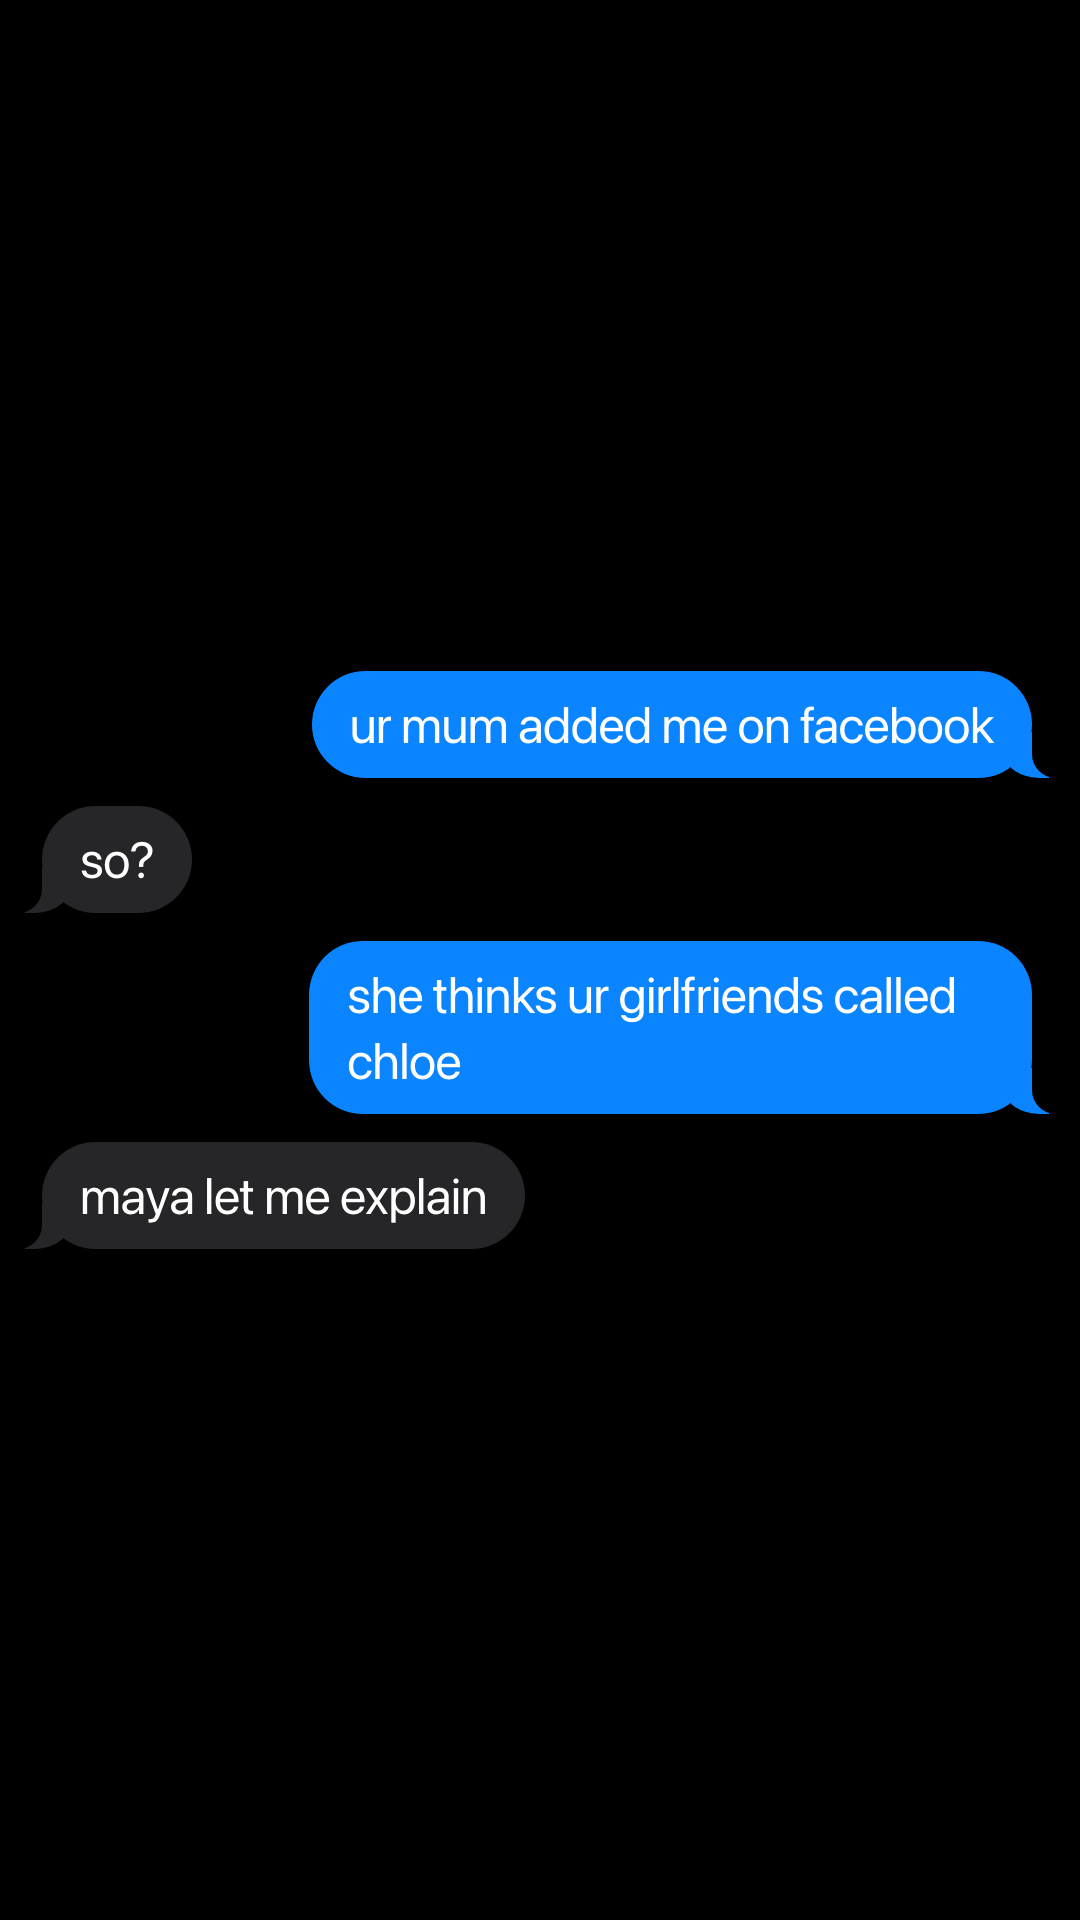
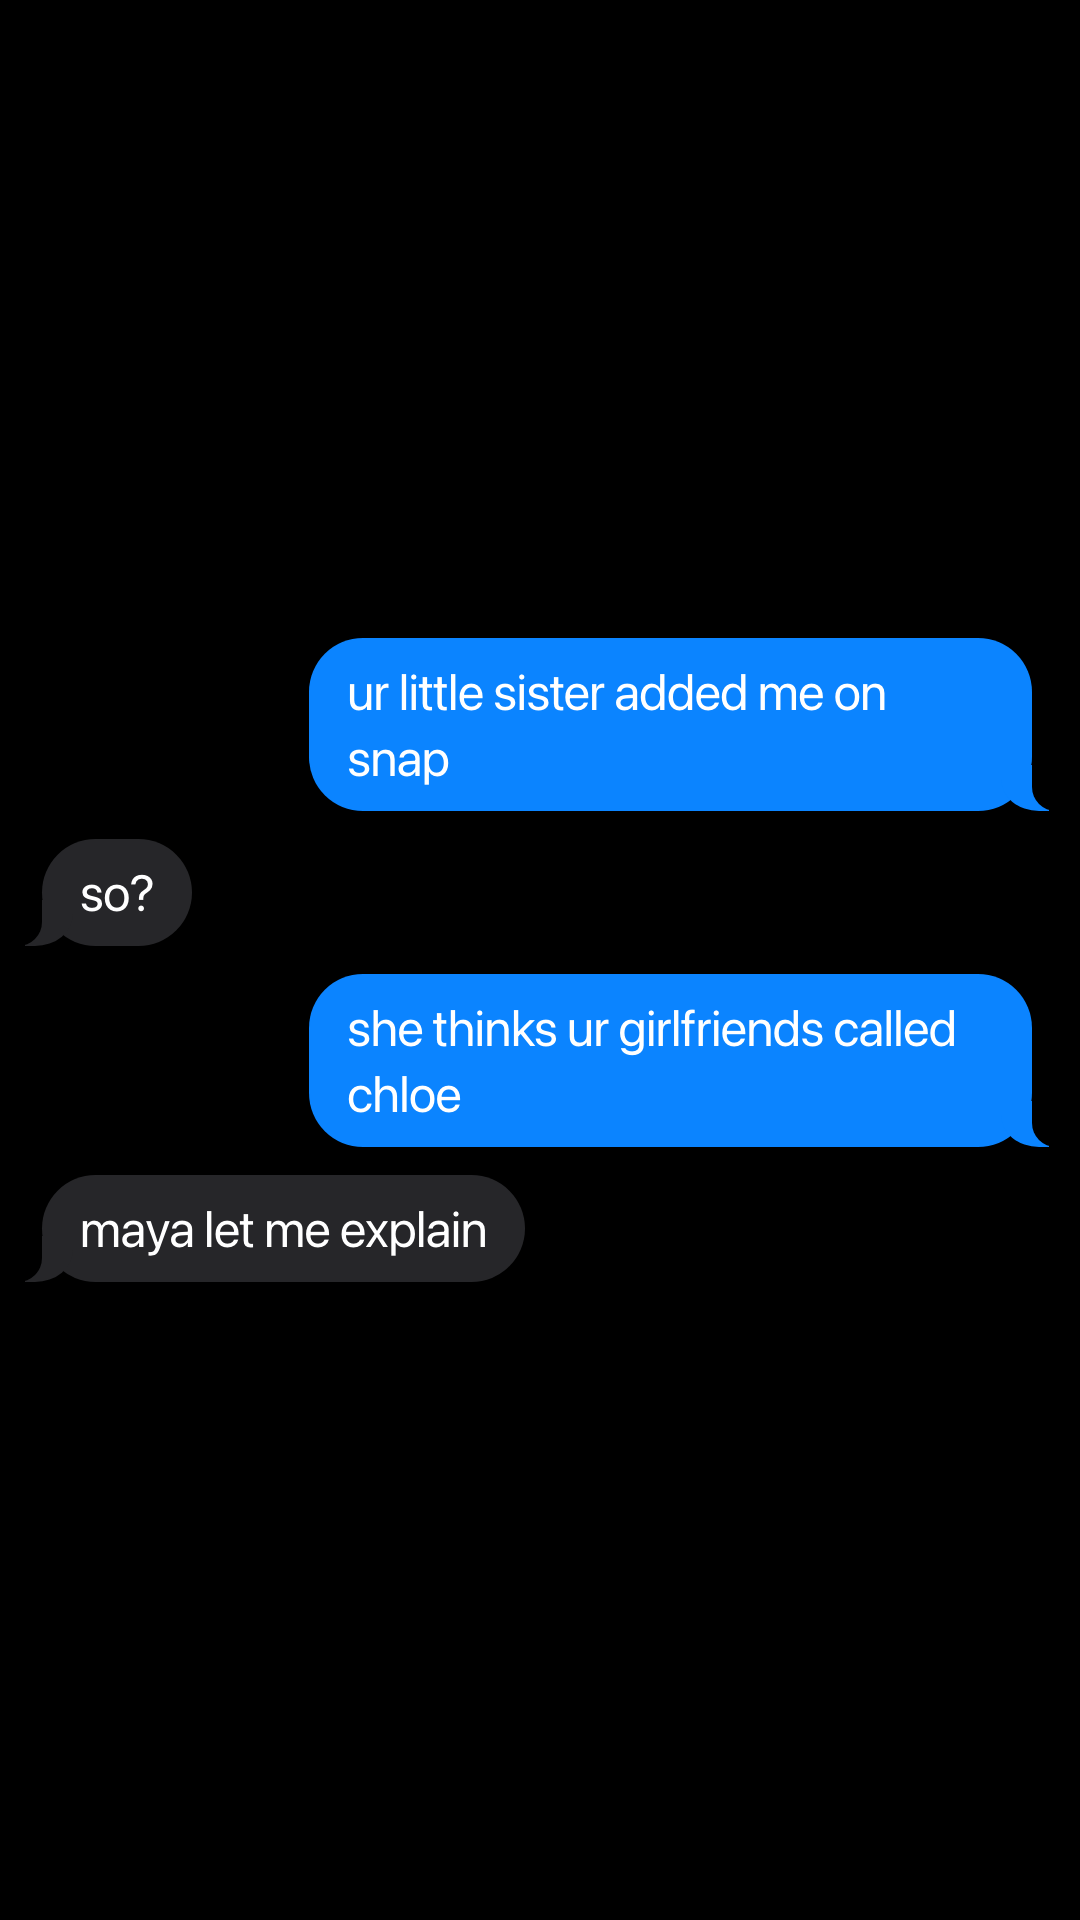
Formula: 221 to 228 (toxic, their own apps, "as you should"); 218 on snap, not facebook
The owner: "more toxic manipulative ... realistic 20 year olds, nobody uses
really facebook from gen-z its more on snapchat, ig followers ... as you
should girl".

Changed region(s): [[0.0306, 0.4688, 0.9778, 0.6875], [0.275, 0.3125, 0.9778, 0.4375], [0.0306, 0.4062, 0.1833, 0.5]]

diff --git a/docs/marketing/VIRAL-FORMULA.md b/docs/marketing/VIRAL-FORMULA.md
@@ -1193,6 +1193,37 @@ bubble, and most flops went up in the morning.
 
 **Post order:** 214, 213, 216, 215, 219, 217, 220, 218. One a night, in the evening.
 
+### 221 to 228: toxic, their own apps, and "as you should"
+
+The owner, 27 Sept: "more toxic manipulative ... realistic 20 year olds, nobody uses really facebook from
+gen-z its more on snapchat, ig followers ... as you should girl". (218's "ur mum added me on facebook" is now
+"ur little sister added me on snap".)
+
+- **Their apps, not ours.** Snapchat: a 412-day streak with the ex, Snap Map putting him at her flat, ghost
+  mode, "opened" at 21:04, the screenshot alert. Instagram: close friends, the number of girls he follows, a
+  like from 2019, a hand with acrylics on his story. Facebook is their parents'.
+- **His lines are the real ones:** "ur so insecure", "its glitching", "shes like a sister to me", "good
+  girl", "my thumb slipped", "stop stalking my story", "u went through my phone??", "ur nothing without me".
+- **His gift is the love-bomb:** "made u this so u stop overthinking".
+- **Her ending is his own words or his own app, in one or two bubbles.** "keep the streak / lose the
+  girlfriend 💅", "its glitching" from Jake's, "shes like a sister to me 💅". That is what makes the room type
+  "as you should". The room is against him from the first slide on purpose; the pleasure is the comeback.
+- **228 turns the product round:** she takes him to cat court, and the ruling's sentence reads "blocked, on
+  everything".
+
+| | His move | Gift | Her comeback | Last bubble |
+|---|---|---|---|---|
+| 221 | a 412-day streak with his ex, "just black screens", "ur so insecure" | Jar of Reasons | sends his gift to the ex: "keep the streak / lose the girlfriend 💅" | "maya ur being dramatic" |
+| 222 | Snap Map at her flat for 3 hours, "its glitching" | Bouquet | ghost mode off, at Jake's: "its glitching" | "maya thats not funny" |
+| 223 | "unfollow him", "good girl", follows 614 girls ("they're models") | XOXO | unfollows him, follows Jake back 💅 | "MAYA" |
+| 224 | close friends is "just the boys" and Chloe, "like a sister" | Music Box | her close friends: her and Chloe. "shes like a sister to me 💅" | (hers) |
+| 225 | liked her pic from 2019, "my thumb slipped" | Museum | her thumb slipped on his best mate's 2018 pic: "accident 💅" | (hers) |
+| 226 | a hand on his story, "my cousin", "stop stalking my story" | Picnic | he told each of them the other was his cousin; coffee tomorrow, "cousins 💅" | (hers) |
+| 227 | "never got it" against Snapchat's "opened", "ur nothing without me" | Bouquet | screenshotted, and his mum asked why they broke up 💅 | "MAYA" |
+| 228 | "u went through my phone?? thats a huge violation" | The Council (hers) | "ur right. so i took u to court": GUILTY, blocked on everything | "maya pick up" |
+
+**Post order:** 221, 224, 222, 226, 223, 228, 227, 225. Evenings only.
+
 ## Shockers: the sentence that means something else after the gift (165 and 166)
 
 Two posts built on one move: the first bubble is the worst text a person can receive, and the

diff --git a/docs/marketing/tiktok-218/SCRIPT.md b/docs/marketing/tiktok-218/SCRIPT.md
@@ -25,7 +25,7 @@ it's tryethos, the jar one. chloe and i are friends now btw
 ## Replies to have ready
 
 - To "WHO IS CHLOE": "his girlfriend. apparently"
-- To "his mum 😭": "she sent me their christmas card from last year"
+- To "his sister 😭": "she sent me their christmas pic. chloe was in it"
 
 ## Files
 
